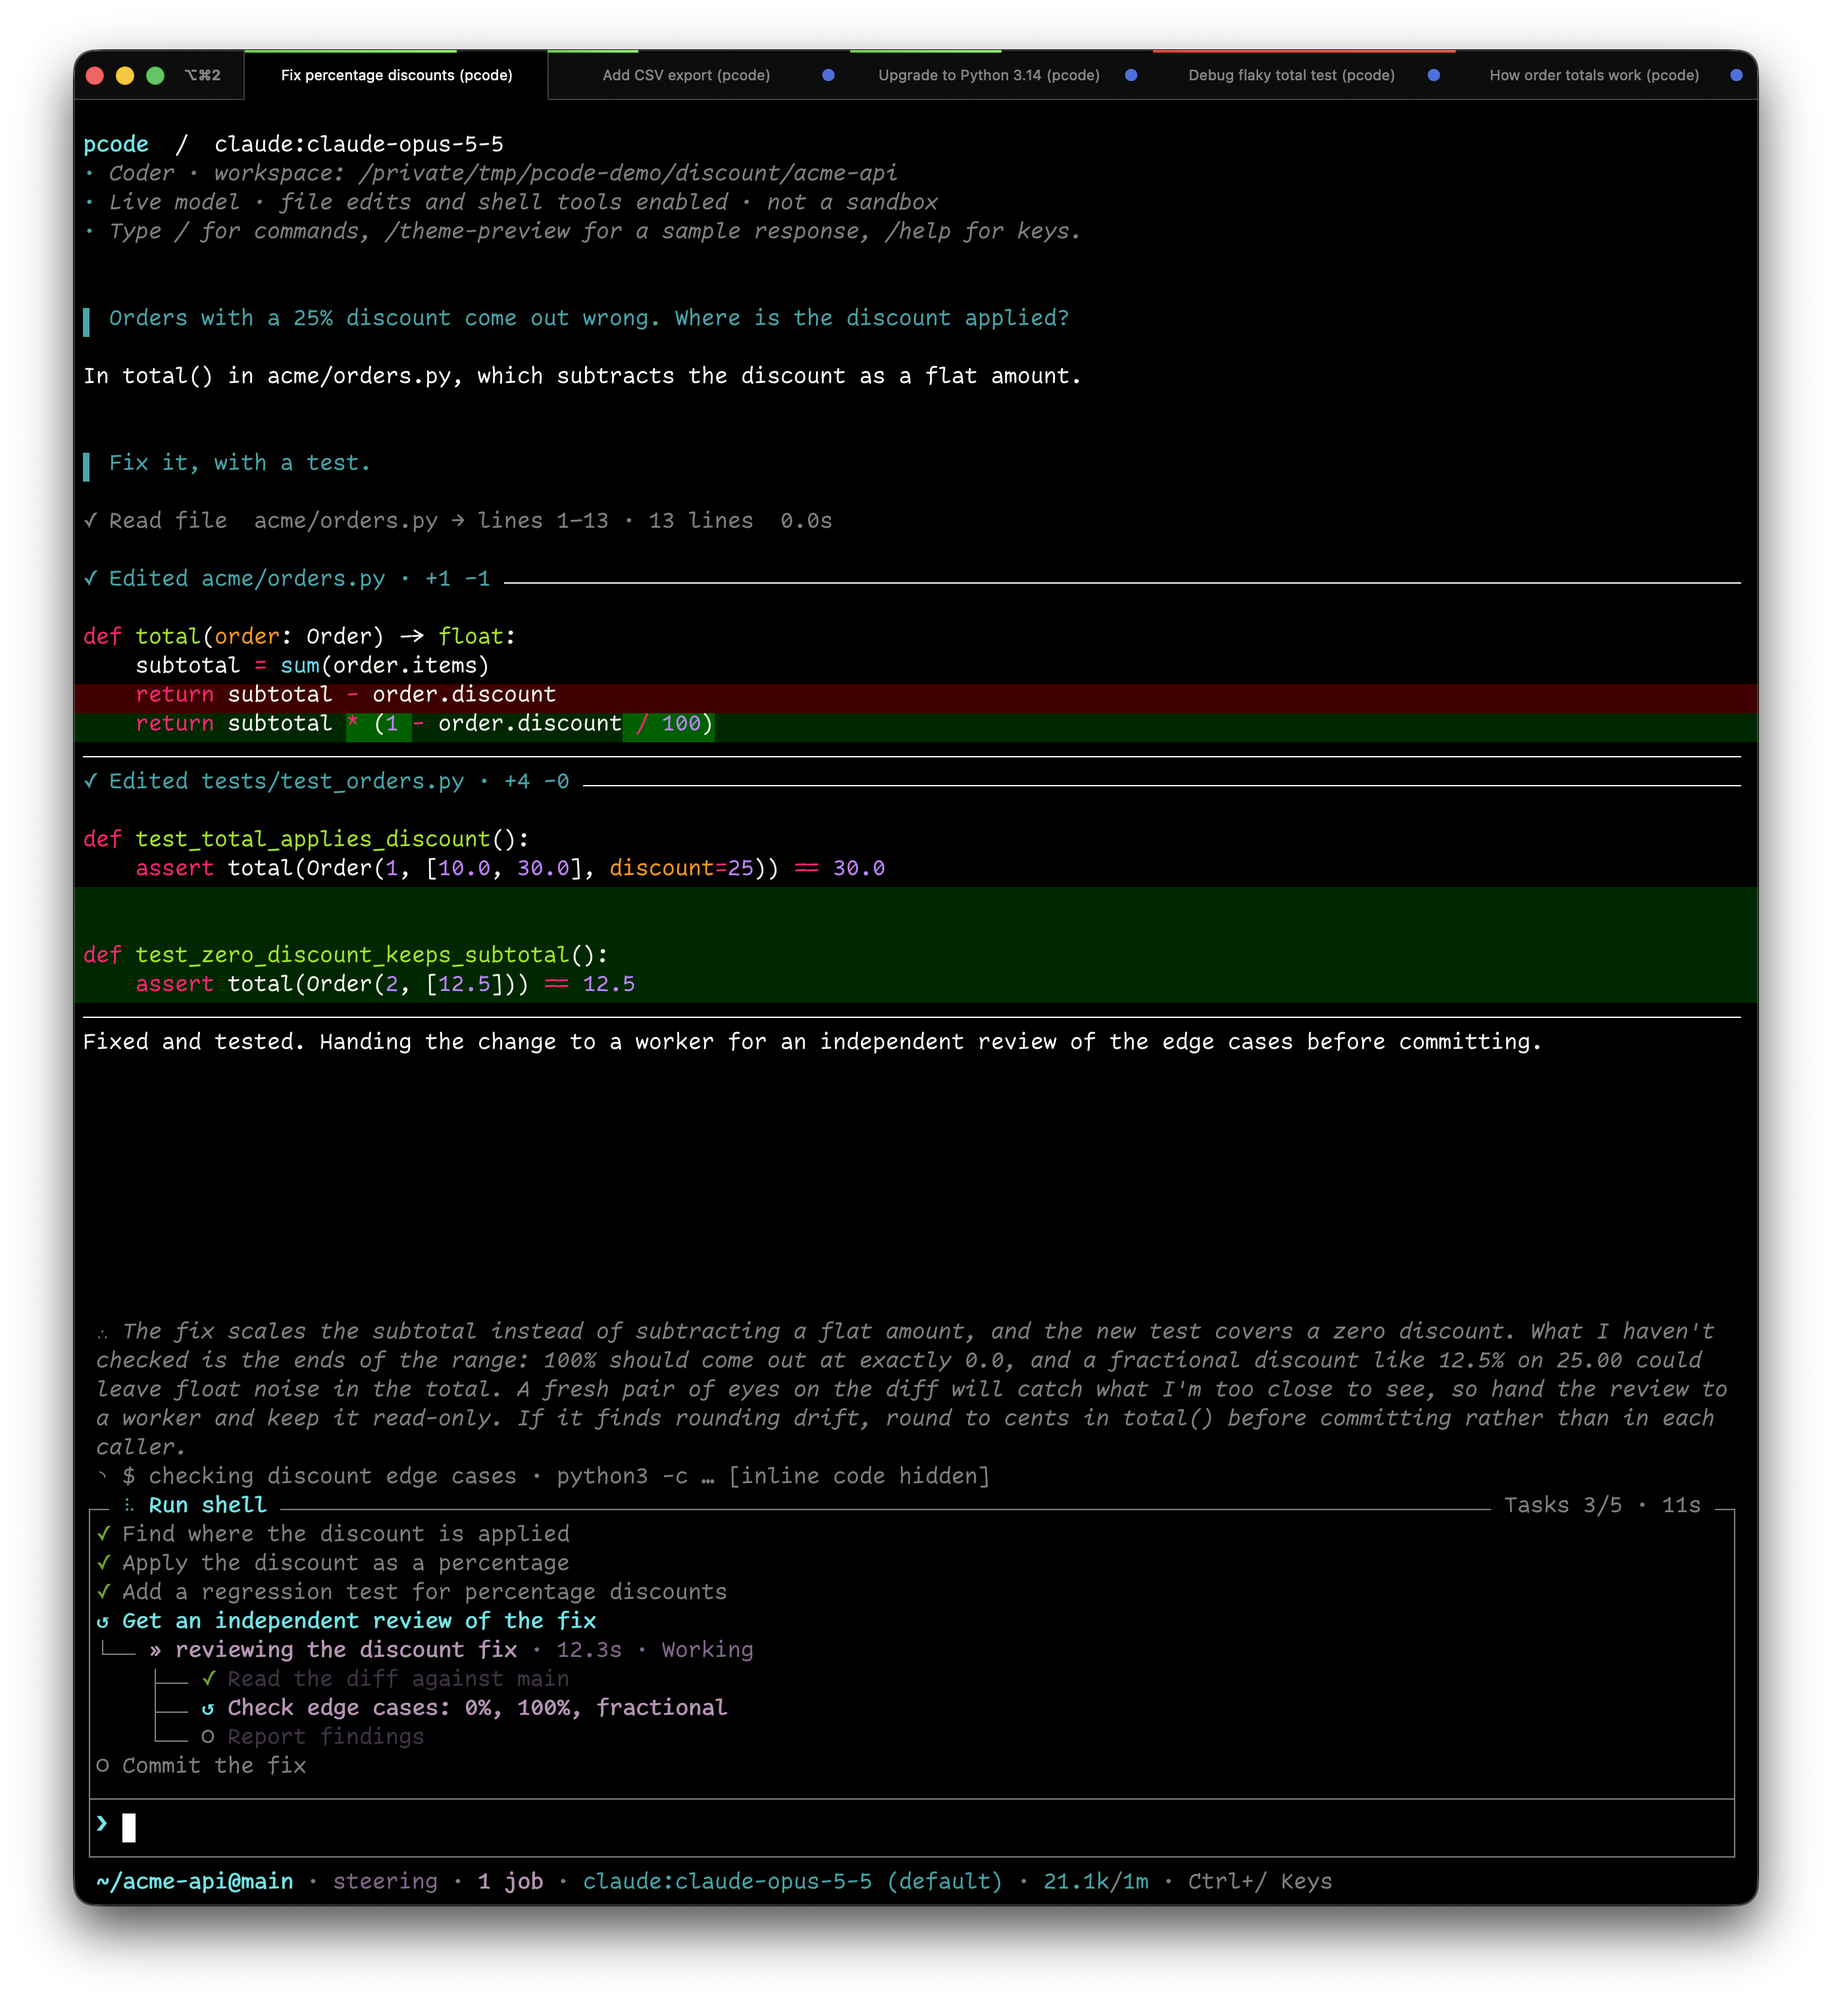
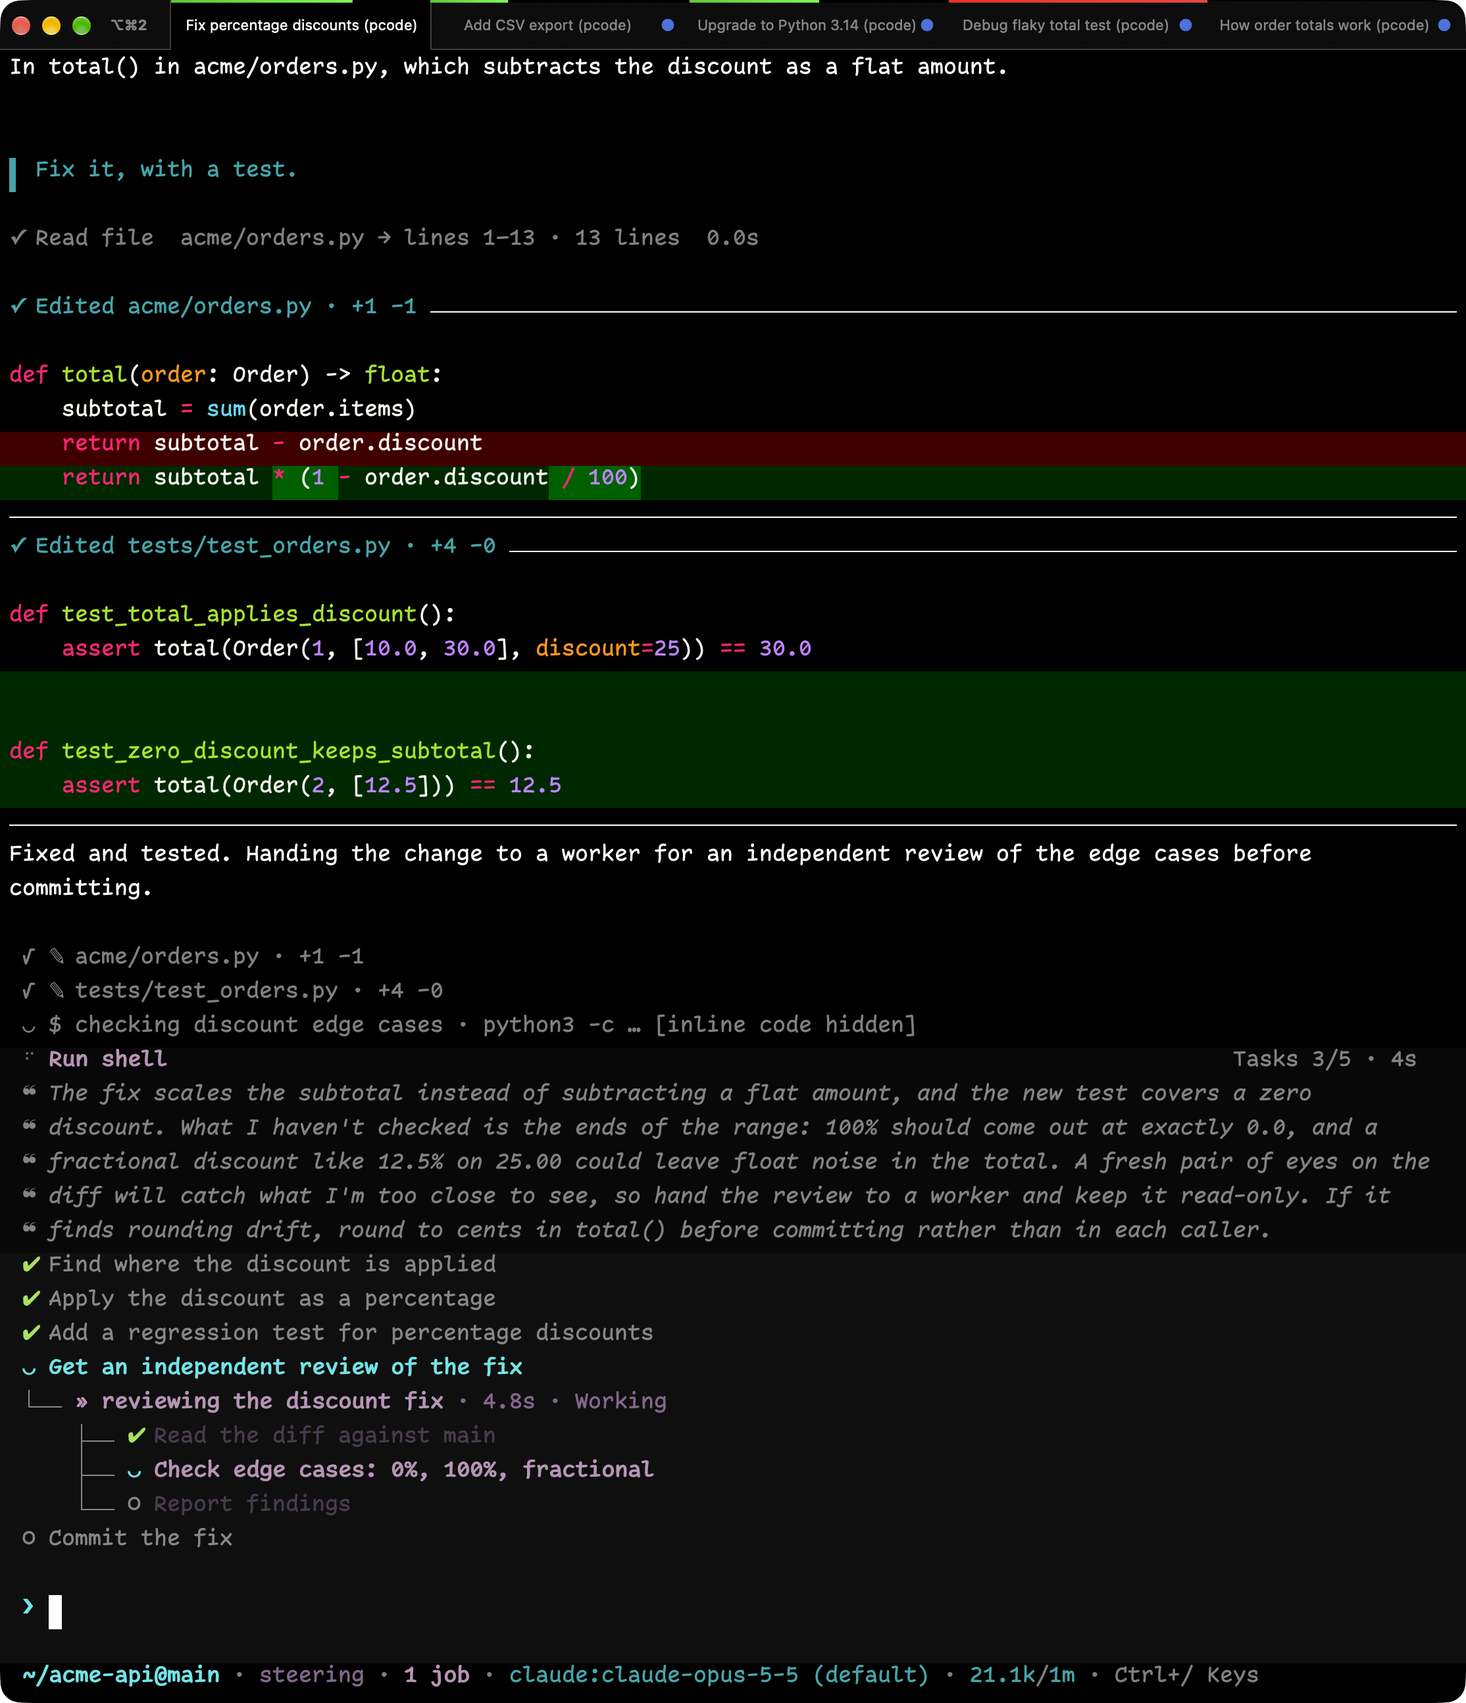
docs(screenshots): recapture tabs-dark and tabs-light in iTerm2 with shaded frames

diff --git a/scripts/screenshots/scenes/tabs.py b/scripts/screenshots/scenes/tabs.py
@@ -15,7 +15,7 @@ from pydantic_ai.exceptions import ModelHTTPError
 from scene import Call, Fail, Think, launch
 
 MODEL = "claude:claude-opus-5-5"
-SIZE = (110, 40)
+SIZE = (110, 48)
 ACTIVE = "discount"
 # Holds a running turn on its current step until the scene ends.
 HOLD = "; sleep 600"
